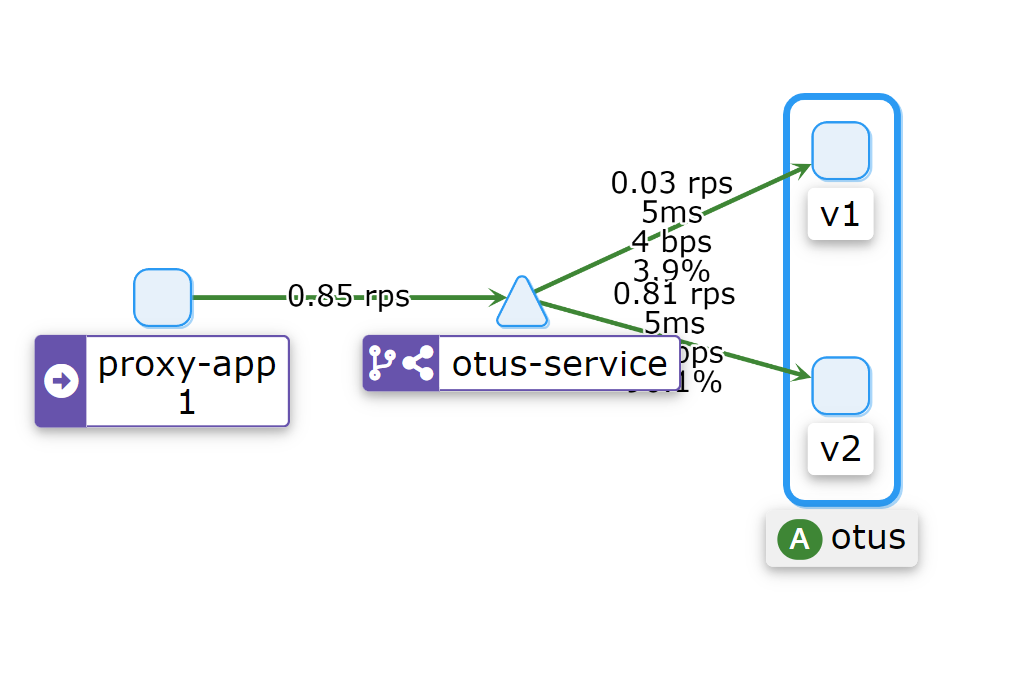
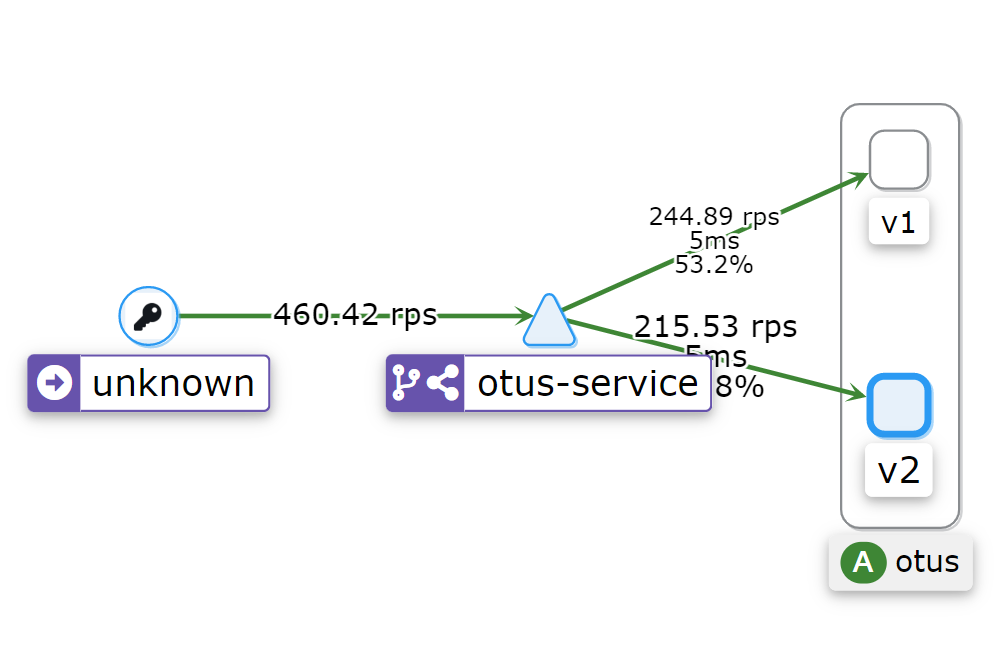
fixed homework-5

Changed region(s): [[0.0, 0.1229, 0.991, 0.9217]]

diff --git a/homework-5/README.md b/homework-5/README.md
@@ -166,6 +166,24 @@ kubectl apply -f manage-traffic/proxy-app-sidecar-enable.yaml
 kubectl apply -f service-discovery/
 ```
 
+Настроим Ingress Gateway
+
+```shell script
+kubectl apply -f http-gateway.yaml
+```
+
+Выполнить запрос к сервису `otus-service`:
+
+````bash
+curl 'http://arch.homework'
+````
+
+В результате исполнения команды видно, что запрос на `otus-service` проходит.
+
+![балансировка трафика между сервисами 50/50](kiali-map-balanced.png)
+
+-----------------------------------------------------------------------------------
+
 ### Устанавливаем proxy-app
 
 Proxy-app - сервис, умеющий запрашивать другие запросы по query-параметру url.
@@ -255,22 +273,6 @@ curl "$(minikube service proxy-app --url)?url=http://otus-service"
 ```shell script
 kubectl apply -f manage-traffic/proxy-app-sidecar-enable.yaml
 ```
-
-```shell script
-kubectl apply -f ingress.yaml
-```
-
-Выполнить запрос к сервису `otus-service`:
-
-````bash
-curl 'http://arch.homework'
-````
-
-В результате исполнения команды видно, что запрос на `otus-service` проходит.
-
-![балансировка трафика между сервисами 50/50](istio.png)
-
------------------------------------------------------------------------------------
 
 ## Others
 

diff --git a/homework-2/README.md b/homework-2/README.md
@@ -47,7 +47,7 @@ kubectl apply -f ./deployment
 Apply that helm if ingress-nginx is not exists in your minikube:
 
 ````bash
-helm install nginx --create-namespace -n ingress-nginx ingress-nginx/ingress-nginx -f ./nginx-ingress.yaml
+helm install nginx --create-namespace -n ingress-nginx ingress-nginx/ingress-nginx -f ./nginx-http-gateway.yaml
 ````
 
 Get arch.homework health, run the following commands:

diff --git a/homework-4/README.md b/homework-4/README.md
@@ -95,7 +95,7 @@ prometheus-prometheus-node-exporter-b9x5m       1/1     Running   0          59s
 Применить правила Ingress для GUI grafana
 
 ````bash
-kubectl apply -f ingress.yaml --namespace=monitoring
+kubectl apply -f http-gateway.yaml --namespace=monitoring
 ````
 
 Добавить в файл hosts
